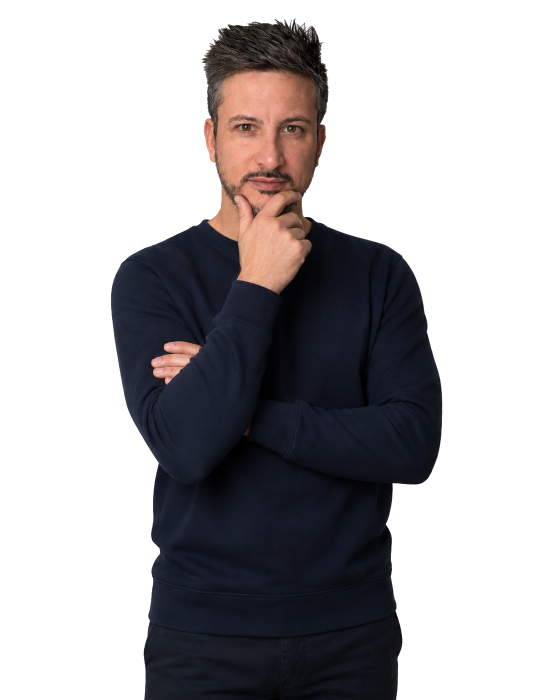
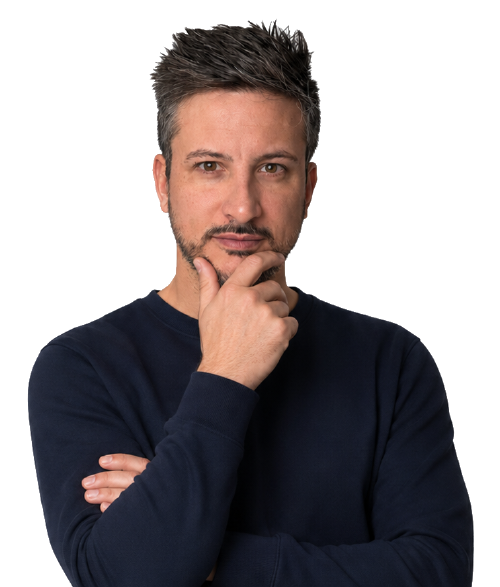
hub: foto em plano aproximado + "Abrir app" + links Surf Drops no domínio novo (#12)
- Foto de autoridade recortada num plano mais aproximado (peito para cima,
  mantém a pose mão-no-queixo): mais conexão com o rosto e preenche melhor
  o espaço. max-width 300->340px. Recorte/otimização local (node), 320KB.
- Pílula do topo direito "Entrar" -> "Abrir app" (estilo DeFi/protocolos).
- Links do Surf Drops (nav + rodapé) passam de surfdrops.vercel.app para
  o domínio novo drops.defisurfers.xyz (estilo dos restantes links do projeto;
  o vercel.app antigo continua a funcionar em paralelo).

diff --git a/hub/index.html b/hub/index.html
@@ -155,7 +155,7 @@
   .author { display: grid; grid-template-columns: 0.8fr 1.2fr; gap: 36px; align-items: center;
     background: var(--bg-elev); border: 1px solid var(--border); border-radius: 20px; padding: 12px 34px; }
   .author-photo { text-align: center; align-self: end; }
-  .author-photo img { width: 100%; max-width: 300px; vertical-align: bottom; }
+  .author-photo img { width: 100%; max-width: 340px; vertical-align: bottom; }
   .author-body { padding: 30px 0; }
   .author-badge { display: inline-block; font-family: 'JetBrains Mono', monospace; font-size: 10.5px; font-weight: 700;
     letter-spacing: 1px; text-transform: uppercase; color: var(--warn); border: 1px solid rgba(255,181,71,0.4);
@@ -318,8 +318,8 @@
       <a href="#precos">Planos</a>
       <a href="#faq">FAQ</a>
       <a href="https://www.youtube.com/@surfistacrypto" target="_blank" rel="noopener">YouTube</a>
-      <a class="nav-btn" href="https://surfdrops.vercel.app" target="_blank" rel="noopener">Airdrops grátis</a>
-      <a class="nav-btn solid" href="https://app.defisurfers.xyz/login">Entrar</a>
+      <a class="nav-btn" href="https://drops.defisurfers.xyz" target="_blank" rel="noopener">Airdrops grátis</a>
+      <a class="nav-btn solid" href="https://app.defisurfers.xyz/login">Abrir app</a>
     </div>
   </nav>
 
@@ -597,7 +597,7 @@
     <div class="foot">
       <span>🌊 DeFi Surfers · desde 2023</span>
       <div class="foot-links">
-        <a href="https://surfdrops.vercel.app" target="_blank" rel="noopener">Surf Drops (airdrops grátis)</a>
+        <a href="https://drops.defisurfers.xyz" target="_blank" rel="noopener">Surf Drops (airdrops grátis)</a>
         <a href="https://app.defisurfers.xyz/login">Radar do Swell (membros)</a>
         <a href="https://t.me/surfistacrypto" target="_blank" rel="noopener">Telegram</a>
         <a href="https://www.youtube.com/@surfistacrypto" target="_blank" rel="noopener">YouTube</a>